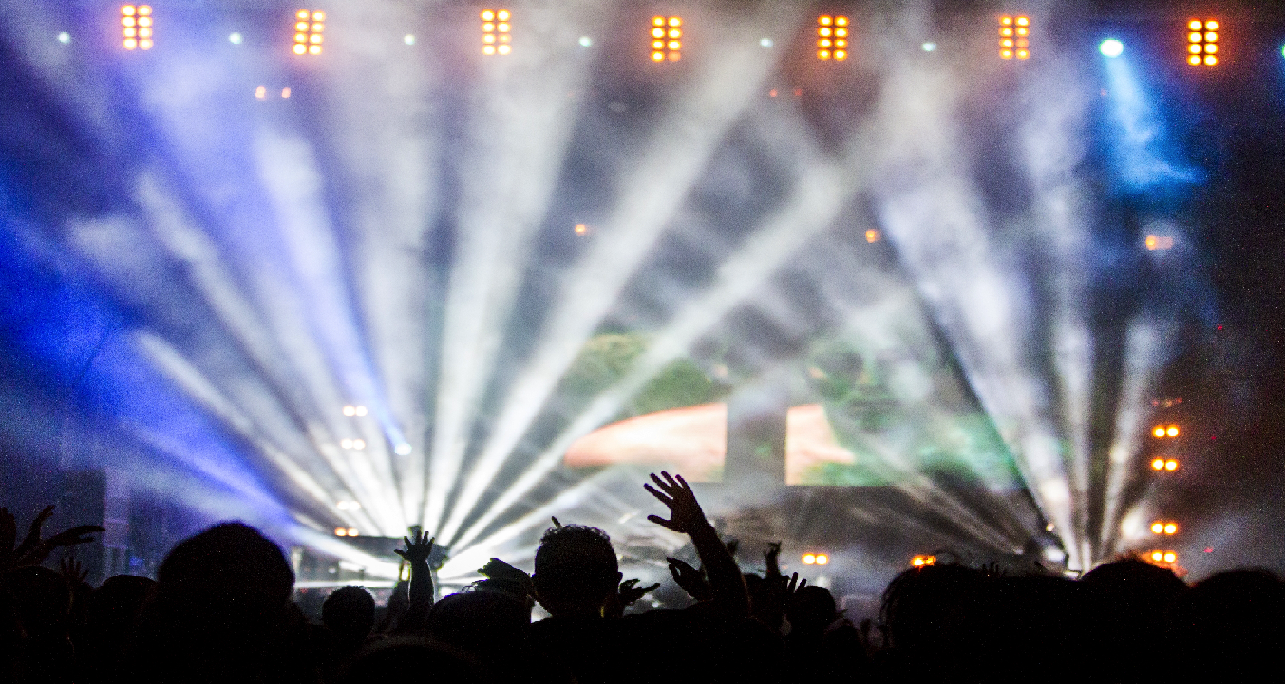
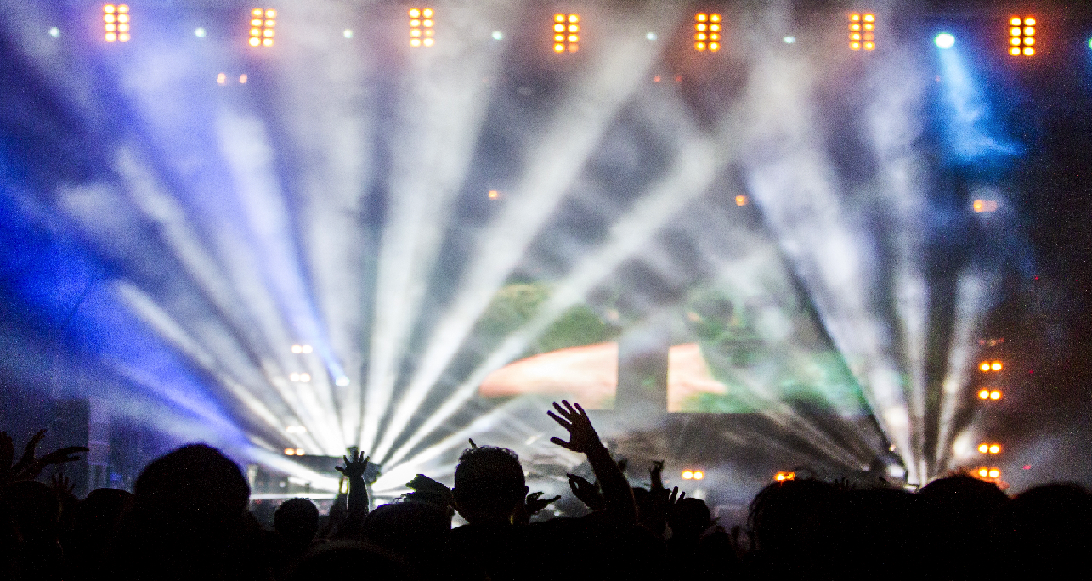
fixed background repeat

diff --git a/index.html b/index.html
@@ -107,7 +107,7 @@
 			<a href="#"><img class = "img-responsive" alt="About Us" src="img/arrows.png" style="float: left; margin-right: 25px; margin-top: 30px;"></a>
 			</div>
 			<div class="col-lg-2">
-			<h2 style= "font-family: 'Kameron', sans-serif; margin-top: 10px;""> Rythmic (& Algorithmic)</h2>
+			<h2 style= "font-family: 'Kameron', sans-serif; margin-top: 18px;""> Rythmic (& Algorithmic)</h2>
 			<h4 style="font-family: 'Kameron', sans-serif; margin-top: 25px;"> We carefully construct playlists through considerations such as venue, audience, and harmonics.</h4>
 			
 			</div>

diff --git a/css/custom.css b/css/custom.css
@@ -6,7 +6,10 @@ body{
 }
 
 .my-back {
-	background-image: url("../img/rave3.png");
+	background-image: url("../img/raveblue.png");
+	background-attachment: fixed;
+    background-size: cover;
+    background-repeat: no-repeat;
 }
 
 .bottompad {
